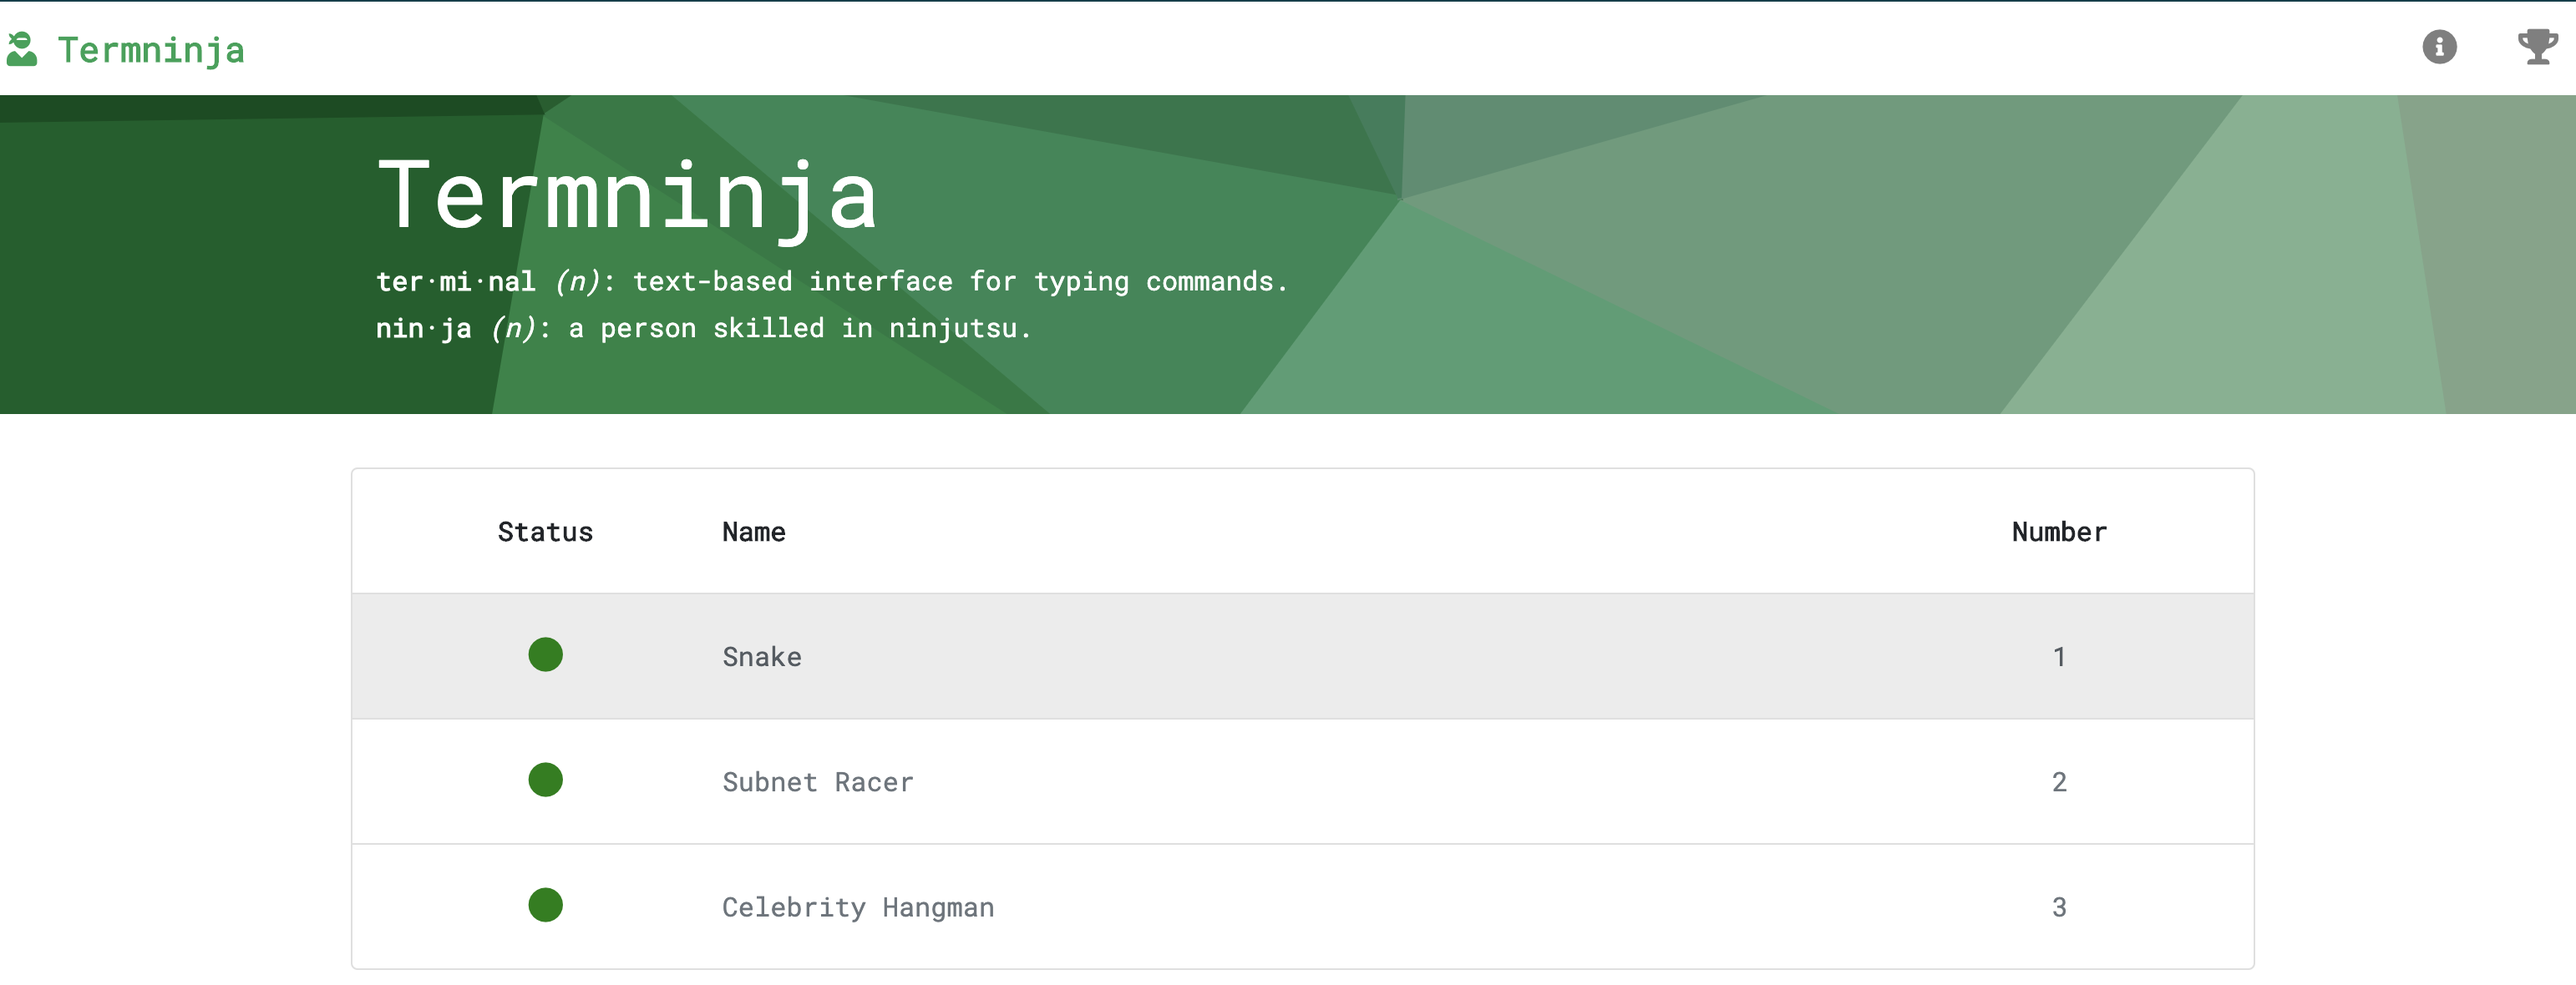
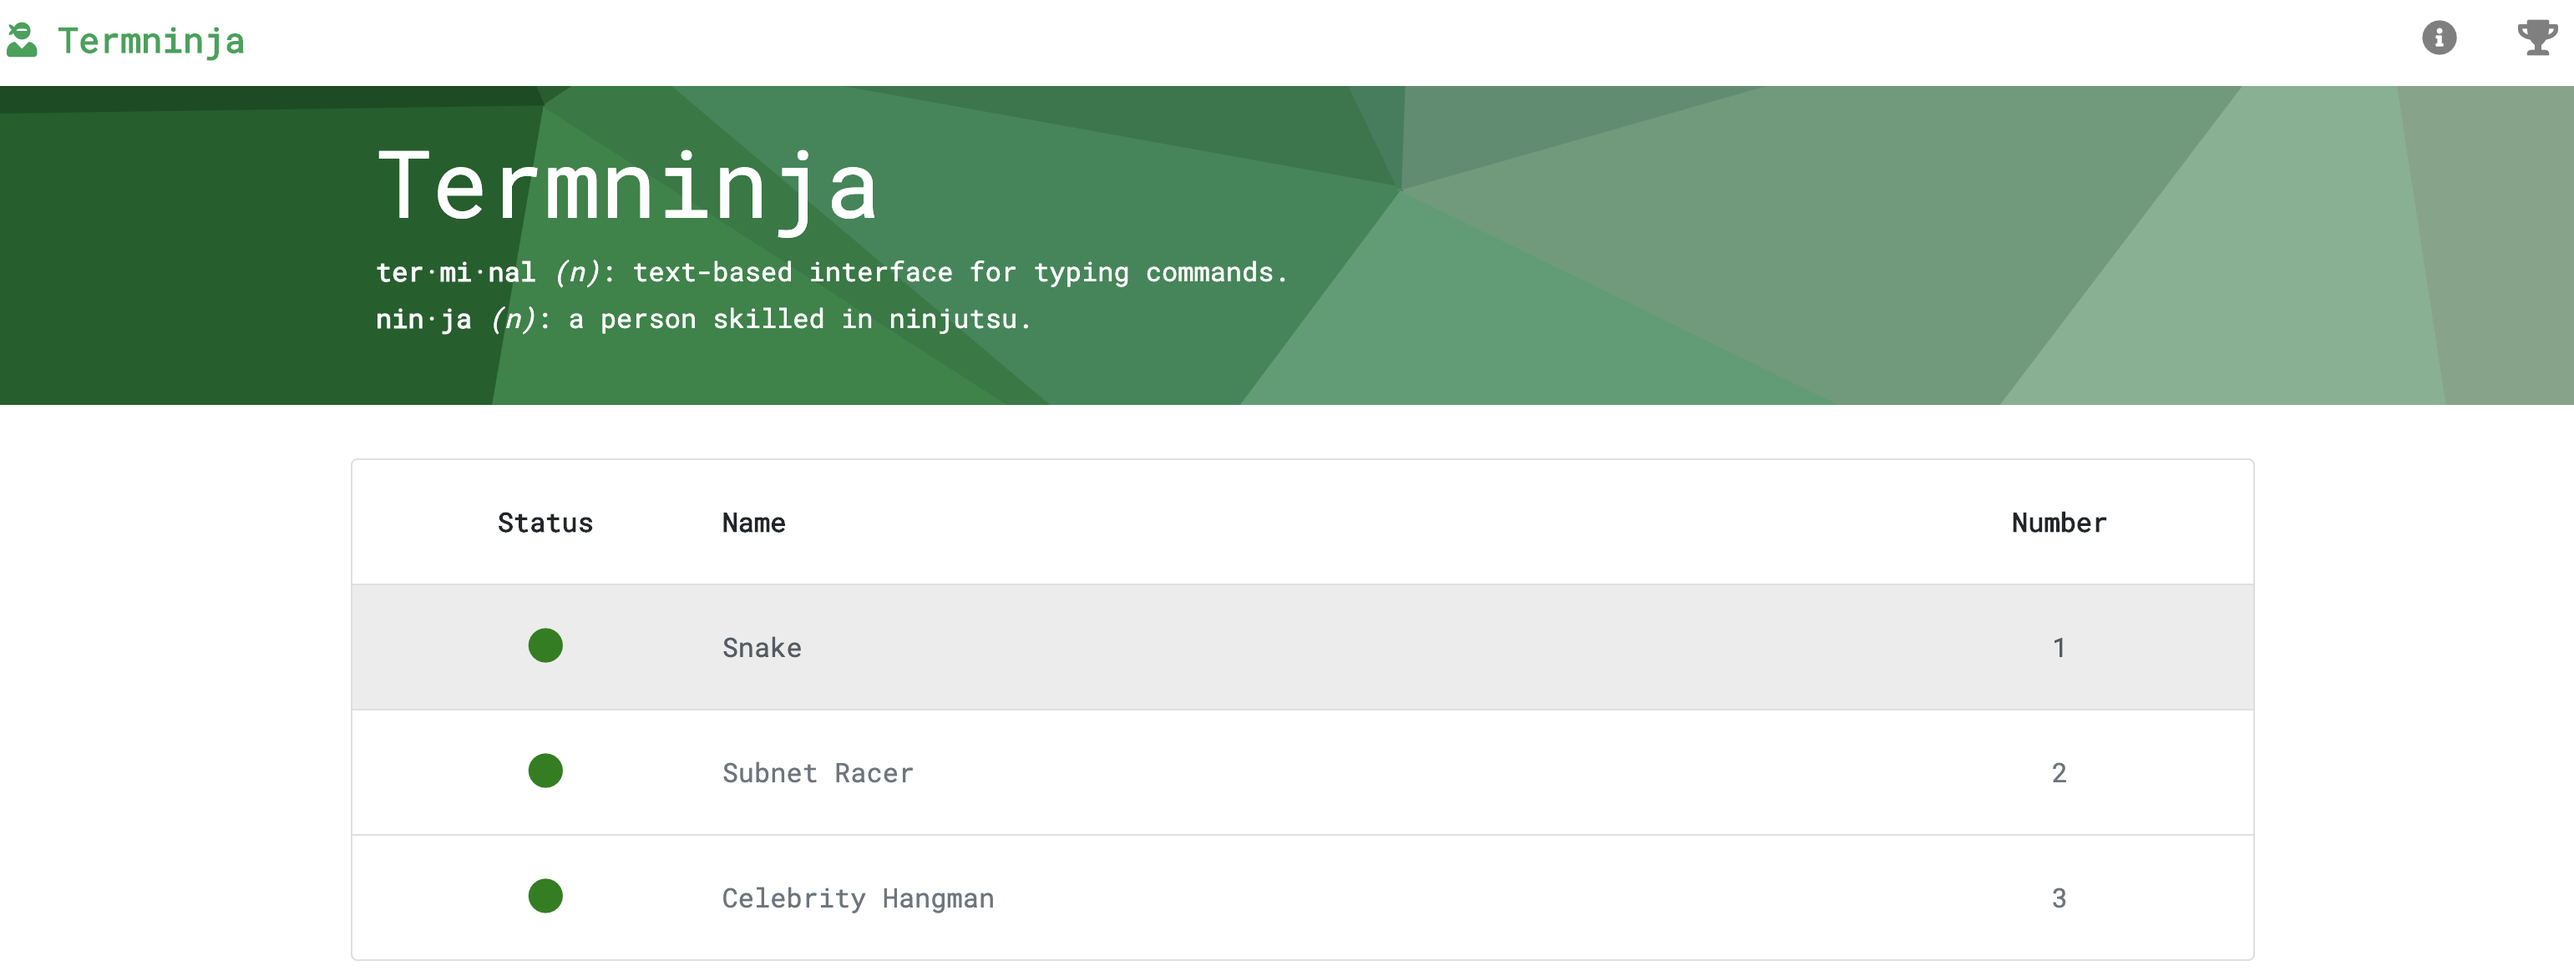
consistent breakpoints

diff --git a/src/components/Timeline.tsx b/src/components/Timeline.tsx
@@ -26,7 +26,7 @@ const TimelineHeader = styled.div`
     flex: 0 0 80px;
     margin-right: 1rem;
 
-    @media screen and (min-width: 768px) {
+    @media screen and (min-width: 760px) {
       display: none !important;
     }
   }
@@ -56,7 +56,7 @@ const TimelineTitle = styled.div`
   align-items: flex-start;
   justify-content: space-between;
 
-  @media screen and (min-width: 768px) {
+  @media screen and (min-width: 760px) {
     flex-flow: row nowrap;
   }
 
@@ -65,7 +65,7 @@ const TimelineTitle = styled.div`
     font-weight: 500;
     margin: 0 0 0.5rem;
 
-    @media screen and (min-width: 768px) {
+    @media screen and (min-width: 760px) {
       font-size: 1.5rem;
     }
 
@@ -80,7 +80,7 @@ const TimelineTitle = styled.div`
     font-weight: 300;
     margin-top: 0.5rem;
 
-    @media screen and (min-width: 768px) {
+    @media screen and (min-width: 760px) {
       font-size: 1rem;
       margin-top: 0;
     }
@@ -91,7 +91,7 @@ const TimelineTitle = styled.div`
     font-weight: 300;
     color: #424242;
 
-    @media screen and (min-width: 768px) {
+    @media screen and (min-width: 760px) {
       font-size: 1.3rem;
     }
 
@@ -115,7 +115,7 @@ const TimelineLine = styled.div`
 const TimelineStepper = styled.div`
   display: none;
 
-  @media screen and (min-width: 768px) {
+  @media screen and (min-width: 760px) {
     display: flex;
     flex-direction: column;
     align-items: center;

diff --git a/src/components/CredentialList.tsx b/src/components/CredentialList.tsx
@@ -7,7 +7,7 @@ const ImageWrapper = styled.div`
   flex: 0 1 80px;
   margin: auto auto;
 
-  @media screen and (min-width: 600px) {
+  @media screen and (min-width: 760px) {
     flex: 1 0 80px;
     margin: 0;
   }
@@ -21,7 +21,7 @@ const CredentialListItem = styled.div`
   flex-wrap: wrap;
   align-items: center;
 
-  @media screen and (min-width: 600px) {
+  @media screen and (min-width: 760px) {
     flex-wrap: nowrap;
   }
 `;
@@ -31,7 +31,7 @@ const CredentialListItemContent = styled.div`
   margin-left: 0;
   margin-top: 2rem;
 
-  @media screen and (min-width: 600px) {
+  @media screen and (min-width: 760px) {
     margin-left: 3rem;
     margin-top: 0;
   }
@@ -56,7 +56,7 @@ const CredentialListItemContent = styled.div`
 `;
 
 const StyledCredentialList = styled.div`
-  padding: 0 3rem;
+  padding: 0 1rem;
   background-color: #fff;
   border-radius: 1rem;
   box-shadow: 0px 2px 1px -1px rgba(0, 0, 0, 0.2),
@@ -64,6 +64,11 @@ const StyledCredentialList = styled.div`
 
   ${CredentialListItem} + ${CredentialListItem} {
     border-top: 1px solid lightgray;
+  }
+
+
+  @media screen and (min-width: 760px) {  
+    padding: 0 3rem;
   }
 `;
 

diff --git a/src/components/Hero.tsx b/src/components/Hero.tsx
@@ -12,7 +12,7 @@ const Container = styled.div`
     height: 300px;
     position: relative;
 
-    @media screen and (min-width: 1024px) {
+    @media screen and (min-width: 1280px) {
       height: 100%;
       position: absolute !important;
     }
@@ -25,15 +25,15 @@ const HeroContent = styled.div`
   max-width: 1400px;
   margin: 0 auto;
   padding: 3rem 1rem;
-  margin-top: -250px;
+  margin-top: -300px;
 
-  @media screen and (min-width: 768px) {
-    padding: 5rem 3rem;
+  @media screen and (min-width: 760px) {
+    padding: 3rem 3rem;
     margin-top: -300px;
   }
 
-  @media screen and (min-width: 1024px) {
-    padding: 9rem 5rem;
+  @media screen and (min-width: 1280px) {
+    padding: 5rem 5rem;
     margin: 0;
   }
 `;

diff --git a/src/components/MainHeroCardInner.tsx b/src/components/MainHeroCardInner.tsx
@@ -10,7 +10,7 @@ const HeroInner = styled.div`
   align-items: center;
   text-align: center;
 
-  @media screen and (min-width: 768px) {
+  @media screen and (min-width: 760px) {
     flex-direction: row;
     text-align: left;
   }
@@ -22,7 +22,7 @@ const HeroInner = styled.div`
 `;
 
 const Details = styled.div`
-  @media screen and (min-width: 768px) {
+  @media screen and (min-width: 760px) {
     margin-left: 1rem;
   }
 

diff --git a/src/components/Section.tsx b/src/components/Section.tsx
@@ -5,12 +5,12 @@ export const Section = styled.section`
   margin: 3rem auto;
   max-width: 1200px;
 
-  @media screen and (min-width: 768px) {
+  @media screen and (min-width: 760px) {
     padding: 0 3rem;
   }
 
-  @media screen and (min-width: 1024px) {
+  @media screen and (min-width: 1280px) {
     padding: 0 5rem;
-    margin: 7rem auto;
+    margin: 5rem auto;
   }
 `;

diff --git a/src/components/SectionTitle.tsx b/src/components/SectionTitle.tsx
@@ -6,11 +6,11 @@ export const SectionTitle = styled.h3`
   word-wrap: break-word;
   word-break: break-all;
 
-  @media screen and (min-width: 768px) {
+  @media screen and (min-width: 760px) {
     font-size: 2;
   }
 
-  @media screen and (min-width: 1024px) {
+  @media screen and (min-width: 1280px) {
     font-size: 2.2rem;
     font-weight: 500;
   }

diff --git a/src/components/HeroCardTitle.tsx b/src/components/HeroCardTitle.tsx
@@ -8,11 +8,11 @@ export const HeroCardTitle = styled.h1`
   margin-top: 0;
   margin-bottom: 1rem;
 
-  @media screen and (min-width: 768px) {
+  @media screen and (min-width: 760px) {
     font-size: 2.2rem;
   }
 
-  @media screen and (min-width: 1024px) {
+  @media screen and (min-width: 1280px) {
     font-size: 2.4rem;
     font-weight: 500;
   }

diff --git a/src/components/Navbar.tsx b/src/components/Navbar.tsx
@@ -17,11 +17,11 @@ const StyledNavbar = styled.header`
   margin: 0 auto;
   padding: 2rem 1rem;
 
-  @media screen and (min-width: 768px) {
+  @media screen and (min-width: 760px) {
     padding: 2rem 3rem;
   }
 
-  @media screen and (min-width: 768px) {
+  @media screen and (min-width: 760px) {
     padding: 2rem 5rem;
   }
 `;

diff --git a/src/components/ExpertiseList.tsx b/src/components/ExpertiseList.tsx
@@ -4,12 +4,8 @@ import styled from "styled-components";
 
 const StyledExpertiseList = styled.div`
   display: grid;
-  gap: 1rem;
+  gap: 2rem;
   grid-template-columns: repeat(auto-fill, minmax(min(250px, 100%), 1fr));
-
-  @media screen and (min-width: 768px) {
-    gap: 2rem;
-  }
 `;
 
 const Expertise = styled.div`

diff --git a/src/components/SocialIcons.tsx b/src/components/SocialIcons.tsx
@@ -7,7 +7,7 @@ const Wrapper = styled.div`
   justify-content: center;
   font-weight: 200;
 
-  @media screen and (min-width: 768px) {
+  @media screen and (min-width: 760px) {
     justify-content: flex-start;
     margin-left: -0.5rem;
   }

diff --git a/src/components/ProjectCardList.tsx b/src/components/ProjectCardList.tsx
@@ -12,7 +12,7 @@ const StyledProjectCardList = styled.div`
   justify-items: stretch;
   align-items: stretch;
 
-  @media screen and (min-width: 768px) {
+  @media screen and (min-width: 760px) {
     gap: 2rem;
   }
 `;
